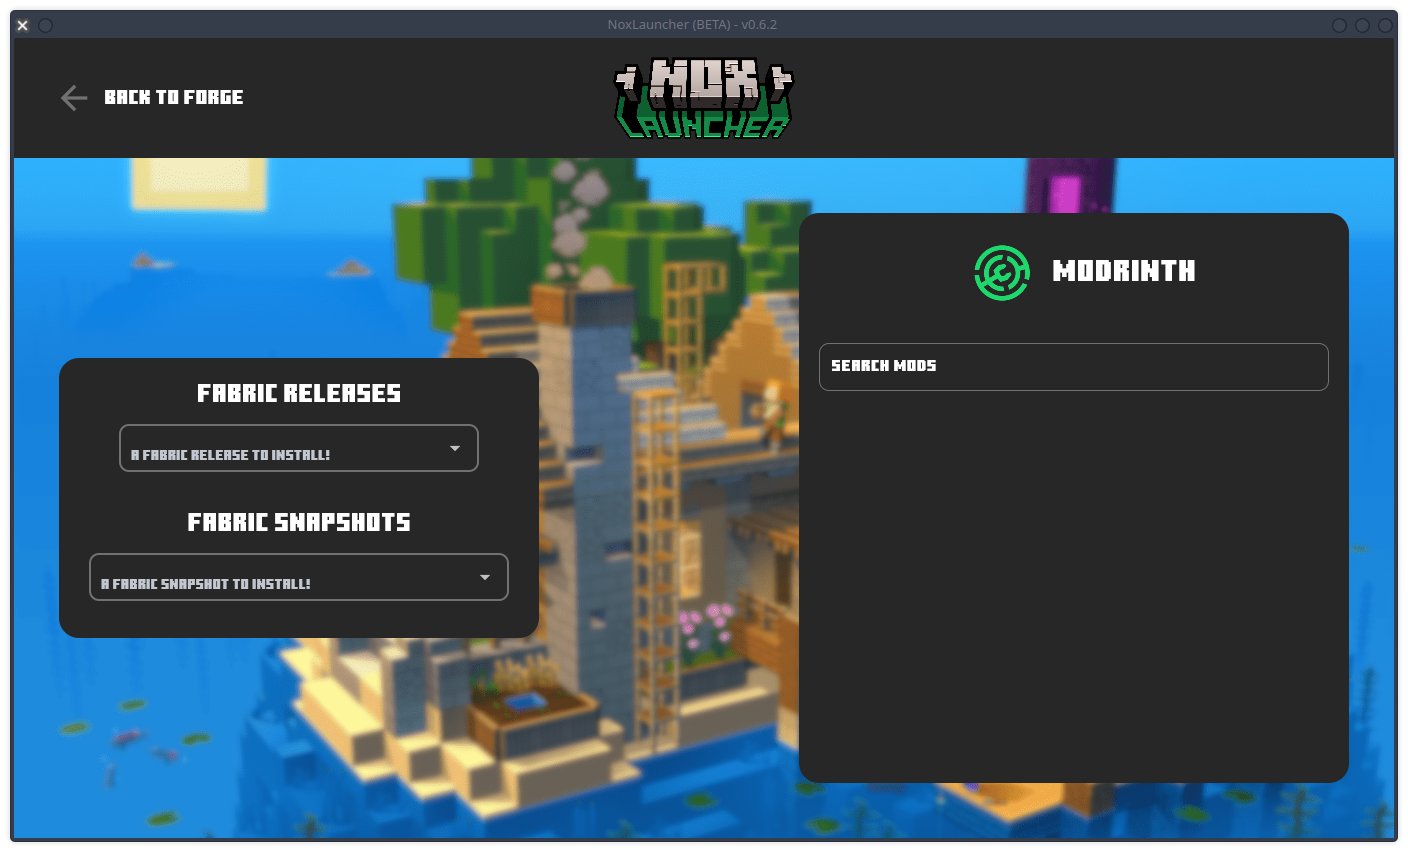
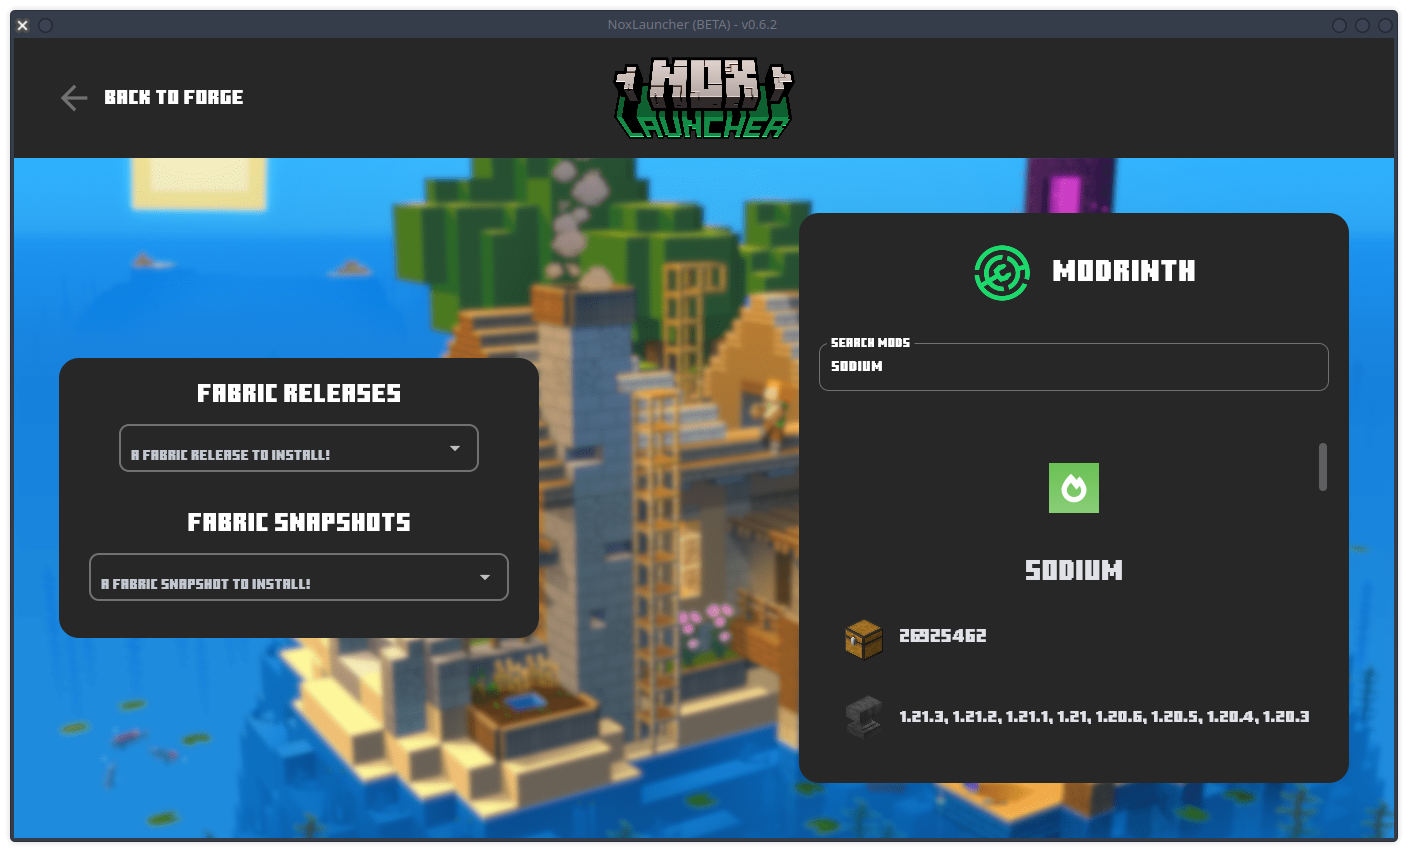
github assets

diff --git a/modrinthapi.py b/modrinthapi.py
@@ -80,7 +80,10 @@ class ModrinthAPI:
                                         flet.Text(project["downloads"], size= 18, font_family= "NoxLauncher")
                                     ],
                                     expand_loose= True,
-                                    spacing= 20
+                                    expand= True,
+                                    alignment= flet.MainAxisAlignment.START,
+                                    run_spacing= 10,
+                                    spacing= 10
                                 ),
                                 alignment= flet.alignment.center_left,
                                 expand_loose= True,
@@ -90,10 +93,11 @@ class ModrinthAPI:
                                 content= flet.Row(
                                     controls= [
                                         flet.Image(src= "mods.png", width= 50, height= 50, filter_quality= flet.FilterQuality.HIGH),
-                                        flet.Text(", ".join(project["versions"]), size= 16, font_family= "NoxLauncher")
+                                        flet.Text(", ".join(reversed(project["versions"])), size= 16, font_family= "NoxLauncher")
                                     ],
                                     expand_loose= True,
-                                    spacing= 20,
+                                    spacing= 10,
+                                    run_spacing= 10,
                                     scroll= flet.ScrollMode.AUTO,
                                     alignment= flet.MainAxisAlignment.START
                                 ),
